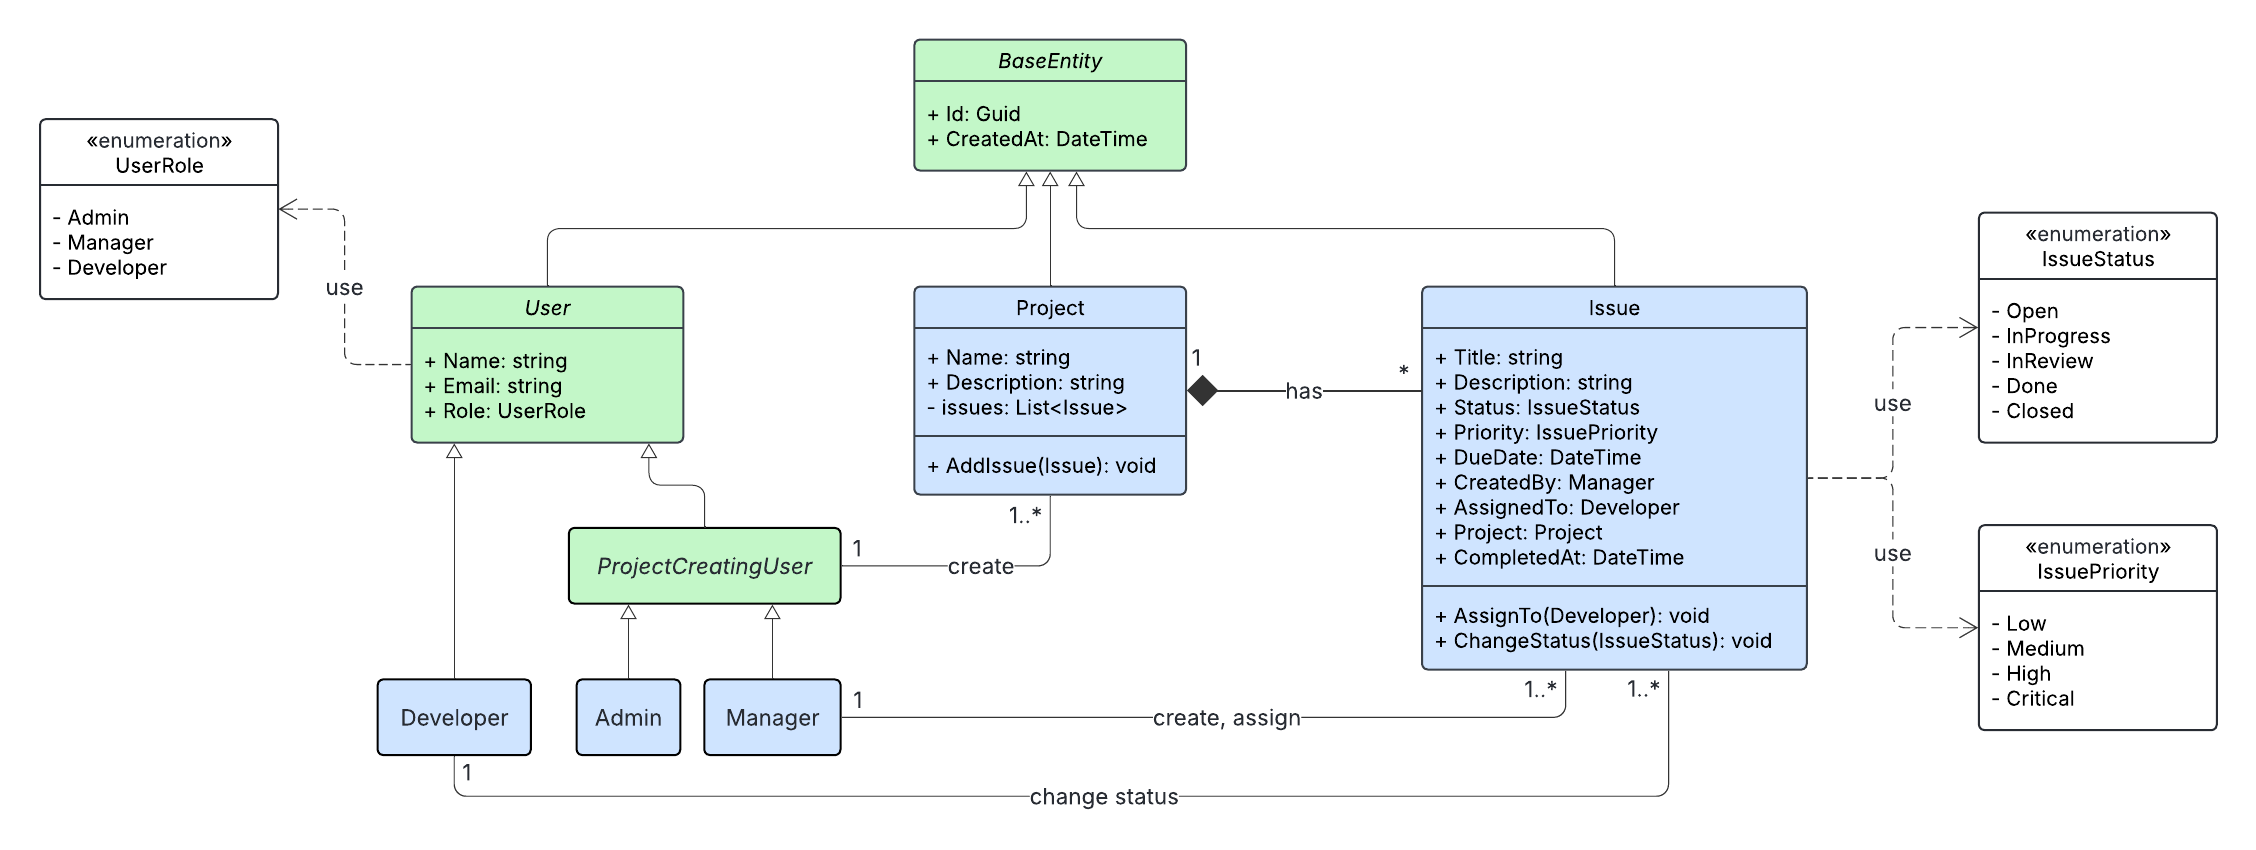
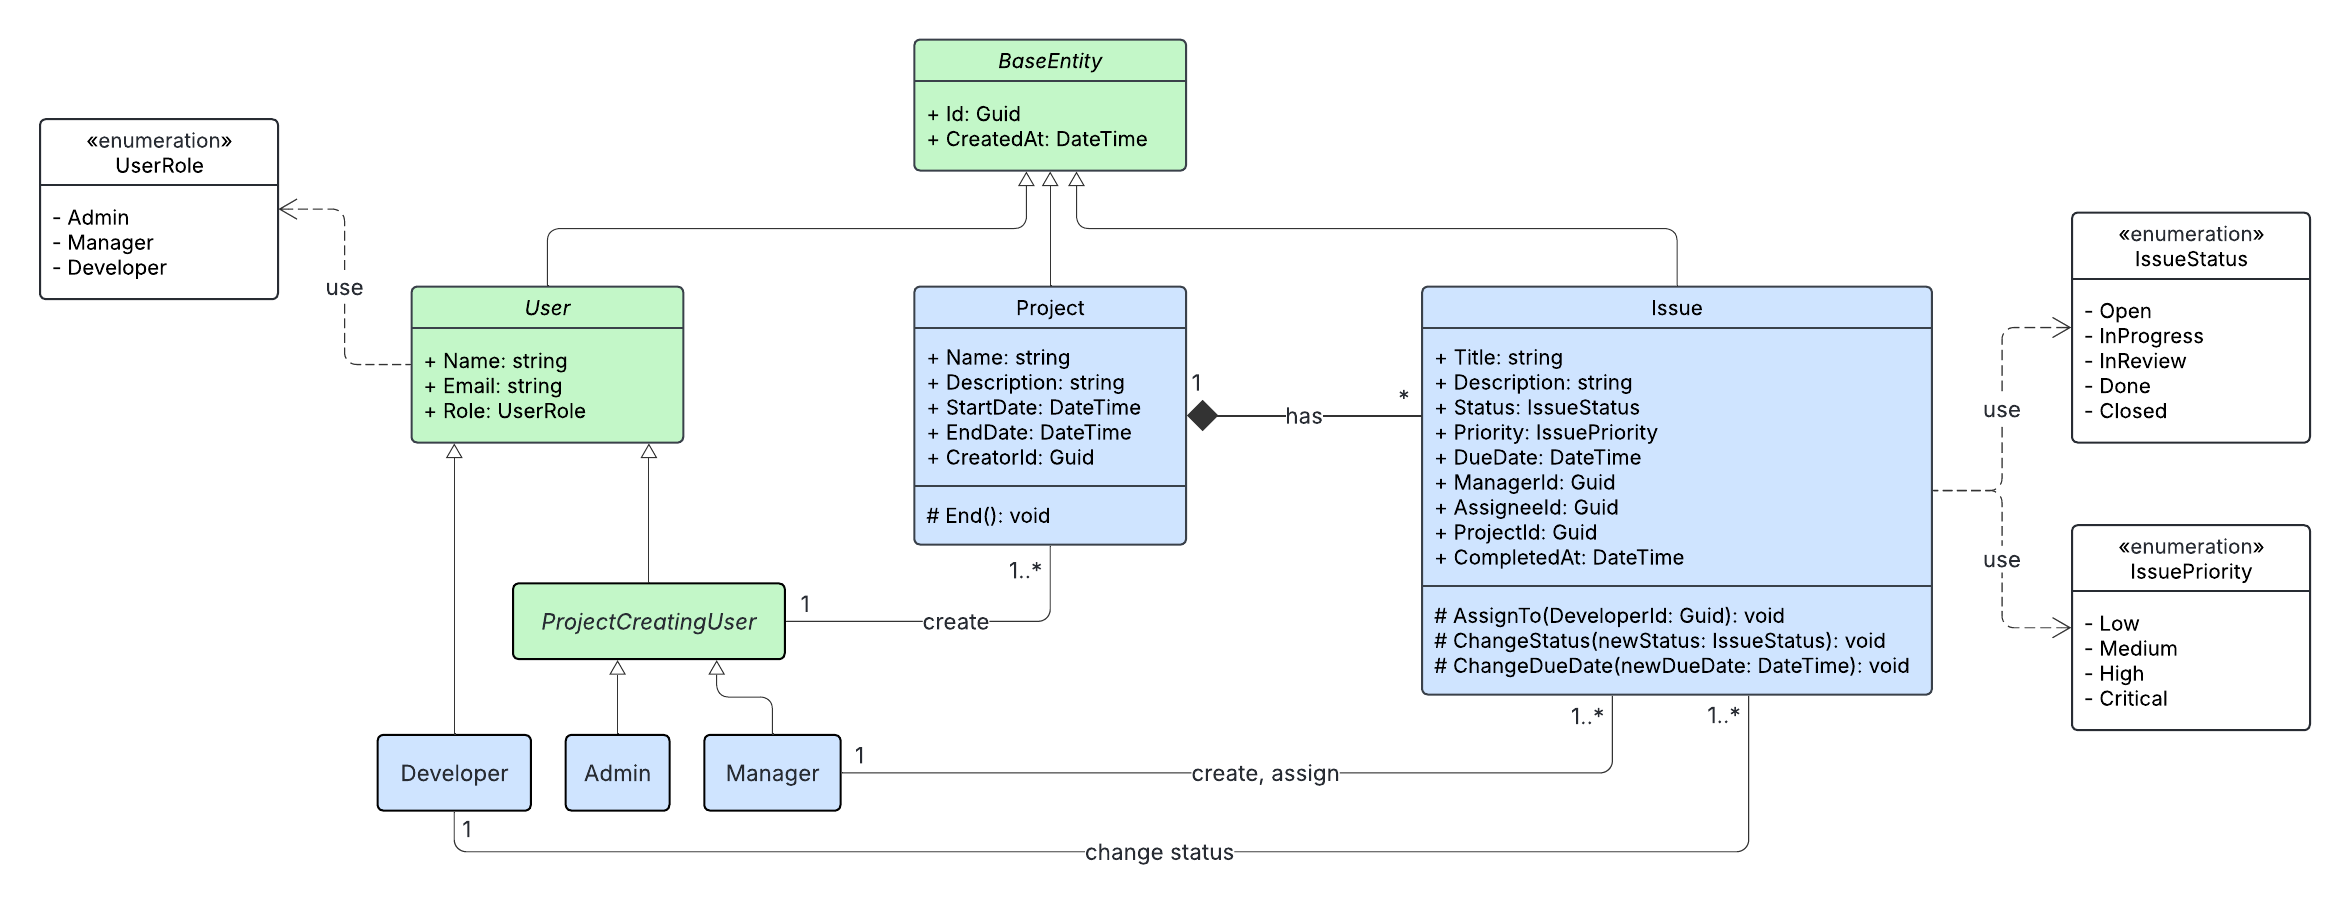
- Updated UML class diagram. - Added domain logic (entities and enums). - Added infrastructure logic (interfaces and concrete repositories).

diff --git a/src/Domain/Entities/Issue.cs b/src/Domain/Entities/Issue.cs
@@ -1,10 +1,65 @@
-using System;
-using System.Collections.Generic;
-using System.Text;
+using SmartIssueTrackingSystem.src.Domain.Enums;
 
 namespace SmartIssueTrackingSystem.src.Domain.Entities
 {
     public class Issue : BaseEntity
     {
+        public string Title { get; private set; }
+        public string Description { get; private set; }
+        public IssueStatus Status { get; private set; }
+        public IssuePriority Priority { get; private set; }
+        public DateTime DueDate { get; private set; }
+
+        public Guid ManagerId { get; private set; }
+        public Guid? AssigneeId { get; private set; }
+        public Guid ProjectId { get; private set; }
+
+        public DateTime? CompletedAt { get; private set; }
+
+        public Issue(
+            string title,
+            string description,
+            IssuePriority priority,
+            DateTime dueDate,
+            Guid managerId,
+            Guid projectId)
+        {
+            Title = title ?? throw new ArgumentNullException(nameof(title));
+            Description = description ?? string.Empty;
+            Priority = priority;
+            DueDate = dueDate;
+            ManagerId = managerId;
+            ProjectId = projectId;
+
+            Status = IssueStatus.Open;
+        }
+
+        internal void AssignTo(Guid developerId)
+        {
+            if (Status == IssueStatus.Done)
+                throw new InvalidOperationException("Cannot assign a completed issue");
+
+            AssigneeId = developerId;
+            if (Status == IssueStatus.Open)
+            {
+                Status = IssueStatus.InProgress;
+            }
+        }
+
+        internal void ChangeStatus(IssueStatus newStatus)
+        {
+            Status = newStatus;
+
+            if (newStatus == IssueStatus.Done)
+                CompletedAt = DateTime.UtcNow;
+        }
+
+        internal void ChangeDueDate(DateTime newDueDate)
+        {
+            if (newDueDate < DateTime.UtcNow)
+                throw new InvalidOperationException("Cannot set due date in the past");
+
+            DueDate = newDueDate;
+        }
     }
 }

diff --git a/src/Infrastructure/Repositories/JsonRepository.cs b/src/Infrastructure/Repositories/JsonRepository.cs
@@ -1,0 +1,66 @@
+using System.Text.Json;
+using SmartIssueTrackingSystem.src.Domain.Entities;
+using SmartIssueTrackingSystem.src.Infrastructure.Interfaces;
+
+namespace SmartIssueTrackingSystem.src.Infrastructure.Repositories
+{
+    public abstract class JsonRepository<T> : IRepository<T> where T : BaseEntity
+    {
+        protected List<T> _items;
+
+        protected JsonRepository()
+        {
+            _items = Load();
+        }
+
+        protected abstract string FilePath { get; }
+
+        protected List<T> Load()
+        {
+            if (!File.Exists(FilePath))
+                return new List<T>();
+
+            var json = File.ReadAllText(FilePath);
+            return JsonSerializer.Deserialize<List<T>>(json)
+                   ?? new List<T>();
+        }
+
+        protected void Save()
+        {
+            var json = JsonSerializer.Serialize(_items, new JsonSerializerOptions
+            {
+                WriteIndented = true
+            });
+
+            File.WriteAllText(FilePath, json);
+        }
+
+        public virtual void Add(T entity)
+        {
+            _items.Add(entity);
+            Save();
+        }
+
+        public virtual void Remove(Guid id)
+        {
+            _items.RemoveAll(e => e.Id == id);
+            Save();
+        }
+
+        public virtual void Update(T entity)
+        {
+            var index = _items.FindIndex(e => e.Id == entity.Id);
+            if (index != -1)
+            {
+                _items[index] = entity;
+                Save();
+            }
+        }
+
+        public T? GetById(Guid id)
+            => _items.FirstOrDefault(e => e.Id == id);
+
+        public IEnumerable<T> GetAll()
+            => _items.AsReadOnly();
+    }
+}

diff --git a/src/Infrastructure/Repositories/IssueRepository.cs b/src/Infrastructure/Repositories/IssueRepository.cs
@@ -1,11 +1,26 @@
-using System;
-using System.Collections.Generic;
-using System.Text;
+using SmartIssueTrackingSystem.src.Domain.Entities;
+using SmartIssueTrackingSystem.src.Domain.Enums;
 using SmartIssueTrackingSystem.src.Infrastructure.Interfaces;
 
 namespace SmartIssueTrackingSystem.src.Infrastructure.Repositories
 {
-    public class IssueRepository : IIssueRepository
+    public class IssueRepository : JsonRepository<Issue>, IIssueRepository
     {
+        protected override string FilePath => "issues.json";
+
+        public IEnumerable<Issue> GetByAssignee(Guid developerId)
+            => _items.Where(i => i.AssigneeId == developerId);
+
+        public IEnumerable<Issue> GetByPriority(IssuePriority priority)
+            => _items.Where(i => i.Priority == priority);
+
+        public IEnumerable<Issue> GetByProject(Guid projectId)
+            => _items.Where(i => i.ProjectId == projectId);
+
+        public IEnumerable<Issue> GetByStatus(IssueStatus status)
+            => _items.Where(i => i.Status == status);
+
+        public IEnumerable<Issue> GetIncomplete()
+            => _items.Where(i => i.CompletedAt is not null);
     }
 }

diff --git a/src/Domain/Entities/Project.cs b/src/Domain/Entities/Project.cs
@@ -1,10 +1,25 @@
-using System;
-using System.Collections.Generic;
-using System.Text;
-
-namespace SmartIssueTrackingSystem.src.Domain.Entities
+namespace SmartIssueTrackingSystem.src.Domain.Entities
 {
     public class Project : BaseEntity
     {
+        public string Name { get; private set; }
+        public string Description { get; private set; }
+        public DateTime StartDate { get; private set; }
+        public DateTime? EndDate { get; private set; }
+        public Guid CreatorId { get; private set; }
+
+        public Project(string name, string description, Guid creatorId)
+        {
+            Name = name ?? throw new ArgumentNullException(nameof(name));
+            Description = description ?? string.Empty;
+            CreatorId = creatorId;
+
+            StartDate = DateTime.UtcNow;
+        }
+
+        internal void End()
+        {
+            EndDate = DateTime.UtcNow;
+        }
     }
 }

diff --git a/src/Infrastructure/Interfaces/IIssueRepository.cs b/src/Infrastructure/Interfaces/IIssueRepository.cs
@@ -1,11 +1,14 @@
-using System;
-using System.Collections.Generic;
-using System.Text;
-using SmartIssueTrackingSystem.src.Domain.Entities;
+using SmartIssueTrackingSystem.src.Domain.Entities;
+using SmartIssueTrackingSystem.src.Domain.Enums;
 
 namespace SmartIssueTrackingSystem.src.Infrastructure.Interfaces
 {
     public interface IIssueRepository : IRepository<Issue>
     {
+        IEnumerable<Issue> GetByProject(Guid projectId);
+        IEnumerable<Issue> GetByStatus(IssueStatus status);
+        IEnumerable<Issue> GetByPriority(IssuePriority priority);
+        IEnumerable<Issue> GetByAssignee(Guid developerId);
+        IEnumerable<Issue> GetIncomplete();
     }
 }

diff --git a/src/Domain/Entities/User.cs b/src/Domain/Entities/User.cs
@@ -1,10 +1,17 @@
-using System;
-using System.Collections.Generic;
-using System.Text;
+using SmartIssueTrackingSystem.src.Domain.Enums;
 
 namespace SmartIssueTrackingSystem.src.Domain.Entities
 {
     public abstract class User : BaseEntity
     {
+        public string Name { get; private set; }
+        public string Email { get; private set; }
+        public UserRole Role { get; protected set; }
+
+        protected User(string name, string email)
+        {
+            Name = name ?? throw new ArgumentNullException(nameof(name));
+            Email = email ?? throw new ArgumentNullException(nameof(email));
+        }
     }
 }

diff --git a/src/Infrastructure/Repositories/ProjectRepository.cs b/src/Infrastructure/Repositories/ProjectRepository.cs
@@ -1,11 +1,13 @@
-using System;
-using System.Collections.Generic;
-using System.Text;
+using SmartIssueTrackingSystem.src.Domain.Entities;
 using SmartIssueTrackingSystem.src.Infrastructure.Interfaces;
 
 namespace SmartIssueTrackingSystem.src.Infrastructure.Repositories
 {
-    public class ProjectRepository : IProjectRepository
+    public class ProjectRepository : JsonRepository<Project>, IProjectRepository
     {
+        protected override string FilePath => "projects.json";
+
+        public IEnumerable<Project> GetByCreator(Guid creatorId)
+            => _items.Where(p => p.CreatorId == creatorId);
     }
 }

diff --git a/src/Infrastructure/Repositories/UserRepository.cs b/src/Infrastructure/Repositories/UserRepository.cs
@@ -1,11 +1,13 @@
-using System;
-using System.Collections.Generic;
-using System.Text;
+using SmartIssueTrackingSystem.src.Domain.Entities;
 using SmartIssueTrackingSystem.src.Infrastructure.Interfaces;
 
 namespace SmartIssueTrackingSystem.src.Infrastructure.Repositories
 {
-    public class UserRepository : IUserRepository
+    public class UserRepository : JsonRepository<User>, IUserRepository
     {
+        protected override string FilePath => "users.json";
+
+        public User? GetByEmail(string email)
+            => _items.FirstOrDefault(u => u.Email == email);
     }
 }

diff --git a/src/Domain/Entities/BaseEntity.cs b/src/Domain/Entities/BaseEntity.cs
@@ -1,10 +1,14 @@
-using System;
-using System.Collections.Generic;
-using System.Text;
-
-namespace SmartIssueTrackingSystem.src.Domain.Entities
+namespace SmartIssueTrackingSystem.src.Domain.Entities
 {
     public abstract class BaseEntity
     {
+        public Guid Id { get; protected set; }
+        public DateTime CreatedAt { get; protected set; }
+
+        protected BaseEntity()
+        {
+            Id = Guid.NewGuid();
+            CreatedAt = DateTime.UtcNow;
+        }
     }
 }

diff --git a/src/Infrastructure/Interfaces/IRepository.cs b/src/Infrastructure/Interfaces/IRepository.cs
@@ -1,11 +1,13 @@
-using System;
-using System.Collections.Generic;
-using System.Text;
-using SmartIssueTrackingSystem.src.Domain.Entities;
+using SmartIssueTrackingSystem.src.Domain.Entities;
 
 namespace SmartIssueTrackingSystem.src.Infrastructure.Interfaces
 {
     public interface IRepository<T> where T : BaseEntity
     {
+        void Add(T entity);
+        void Remove(Guid id);
+        void Update(T entity);
+        T? GetById(Guid id);
+        IEnumerable<T> GetAll();
     }
 }

diff --git a/src/Infrastructure/Interfaces/IProjectRepository.cs b/src/Infrastructure/Interfaces/IProjectRepository.cs
@@ -1,11 +1,9 @@
-using System;
-using System.Collections.Generic;
-using System.Text;
-using SmartIssueTrackingSystem.src.Domain.Entities;
+using SmartIssueTrackingSystem.src.Domain.Entities;
 
 namespace SmartIssueTrackingSystem.src.Infrastructure.Interfaces
 {
     public interface IProjectRepository : IRepository<Project>
     {
+        IEnumerable<Project> GetByCreator(Guid creatorId);
     }
 }

diff --git a/src/Domain/Entities/Manager.cs b/src/Domain/Entities/Manager.cs
@@ -1,10 +1,12 @@
-using System;
-using System.Collections.Generic;
-using System.Text;
+using SmartIssueTrackingSystem.src.Domain.Enums;
 
 namespace SmartIssueTrackingSystem.src.Domain.Entities
 {
     public class Manager : ProjectCreatingUser
     {
+        public Manager(string name, string email) : base(name, email)
+        {
+            Role = UserRole.Manager;
+        }
     }
 }
